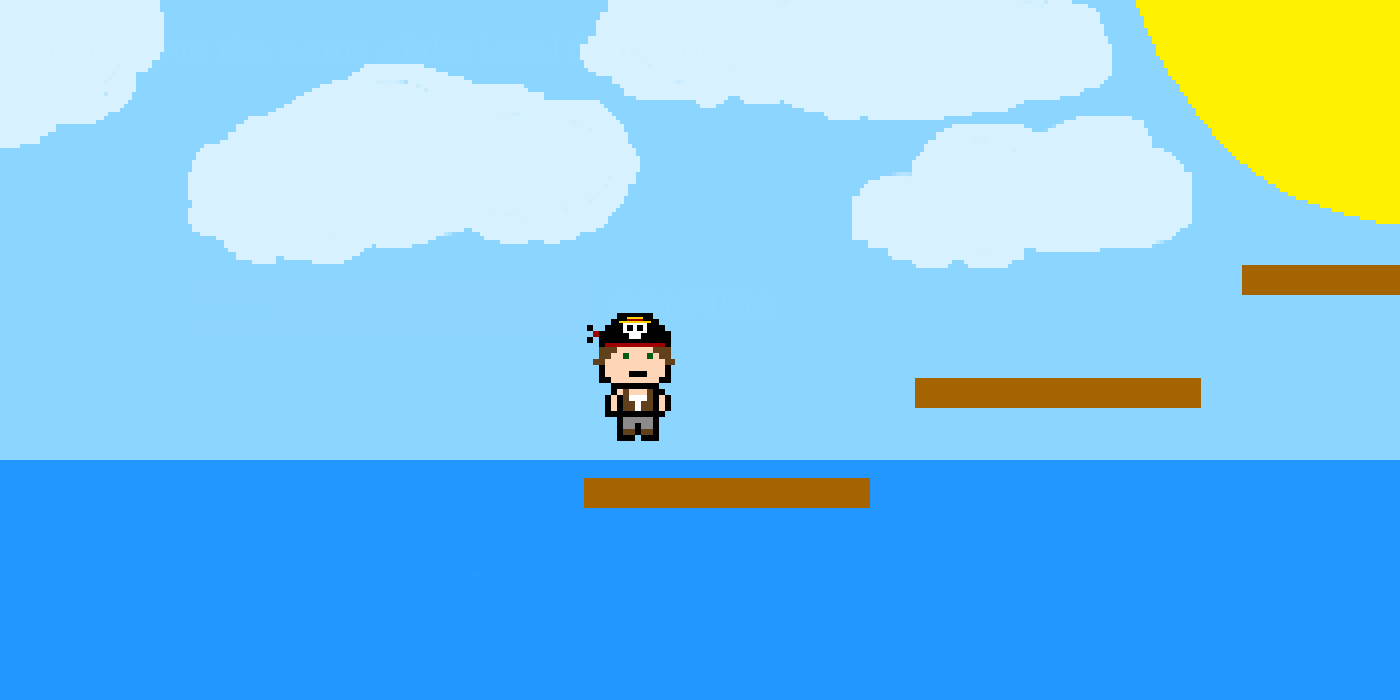
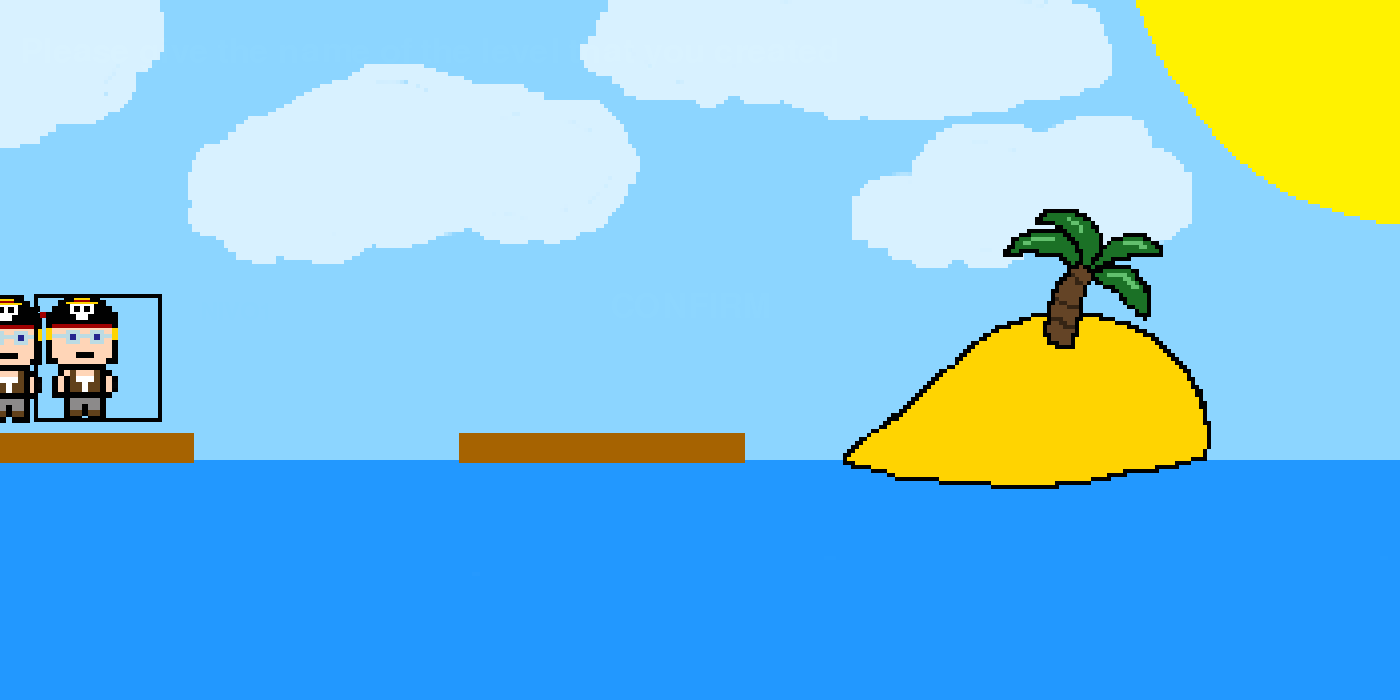
update

Changed region(s): [[0.3071, 0.3, 0.8907, 0.75], [0.0, 0.42, 0.1536, 0.66], [0.86, 0.36, 1.0, 0.42]]

diff --git a/V1.7.py b/V1.7.py
@@ -113,6 +113,7 @@ class player(people):#the class of the player entity
                 i.x-=self.spdx
             for i in prjs:
                 i.x-=self.spdx
+            self.finish[0]-=self.spdx
             self.spawnpoint[0]-=self.spdx
         if (self.y>100 or self.spdy>0) and (self.y<screeny-200-self.height or self.spdy<0 or self.spawnpoint[1]<=0):
             self.y+=self.spdy
@@ -125,6 +126,7 @@ class player(people):#the class of the player entity
                 i.y-=self.spdy
             for i in prjs:
                 i.y-=self.spdy
+            self.finish[1]-=self.spdy
             self.spawnpoint[1]-=self.spdy
 
     def attack(self):#the attack function is the function that summon the projectiles thrown by the player
@@ -395,7 +397,15 @@ def level_editor_unlocked(last_save):#function used, to know if the player has u
     else:
         return False
 
-
+def save_save(save_name):
+    if os.path.exists("Saves/"+save_name+".txt"):#first as we always do, we check if the file exist
+        with open("Saves/"+save_name+".txt" ,'w+') as saveFile:#if yes we open it
+            saveFile.write('level '+str(nLevel))
+            if nLevel==3:
+                saveFile.write('level_editor True')
+            else:
+                saveFile.write('level_editor False')
+            saveFile.write('player '+str(player.Type))
 #beginning of the execution
 #initialysing and loading all the variables/texures/buttons/lists
 pygame.init()
@@ -456,16 +466,13 @@ for i in range(len(temp)):
 temp=os.listdir('Graphism/Player')
 for i in range(len(temp)):
     images=os.listdir('Graphism/Player/'+temp[i])
-    print(images)
     buffer=[]
     for j in range(2,6):
-        print(images[j])
         buffer.append(pygame.image.load('Graphism/Player/'+temp[i]+'/'+images[j]).convert_alpha())
     walkleft.append(buffer)
     print("buffer")
     buffer=[]
     for j in range(6,10):
-        print(images[j])
         buffer.append(pygame.image.load('Graphism/Player/'+temp[i]+'/'+images[j]).convert_alpha())
     walkright.append(buffer)
 #then loading the unique textures
@@ -591,7 +598,8 @@ while not end:#Main loop of the program
             if button.collide(pygame.mouse.get_pos()[0],pygame.mouse.get_pos()[1]):
                 if pygame.mouse.get_pressed()[0]:
                     print("choosed : "+button.info)
-                    nLevel=load_save(button.info)
+                    save_name=button.info
+                    nLevel=load_save(save_name)
                     next_level=level_list[nLevel]
                     start=False
                     choose_save=False
@@ -761,12 +769,11 @@ while not end:#Main loop of the program
             i.draw(hitbox=True)#here we can set hitbox to true to see the hitboxes of the entities
         for i in enemies:
             i.health_bar()#then drawing the health bar of the enemies
-        print(str(player.x)+' '+str(player.y))
-        print(str(player.finish[0])+' '+str(player.finish[1]))
         screen.blit(player.finish[2],(player.finish[0],player.finish[1]))
         if player.x<=player.finish[0]+(128*4)<=player.x+player.width+(128*4) and player.y<=player.finish[1]+(128*4)<=player.y+player.height+(128*4):
             nLevel+=1
             next_level=level_list[nLevel]
+            save_save(save_name)
             play=False
             start=False
             planks=[]

diff --git a/boat_phase.py b/boat_phase.py
@@ -138,7 +138,7 @@ class projectile(): #this class is used for the cannon balls
             screen.blit(cannon_ball,(self.x,self.y))
 
 def main_boat():
-    global boat1_x,boat1_full_life,play,bg2_x,mouse_pos,boat0_x,boat1_life,boat0_life,blue,cooldown,cannon1,cannon0
+    global boat1_x,boat1_full_life,play,bg2_x,mouse_pos,boat0_x,boat1_life,boat0_life,blue,cooldown,cannon1,cannon0,boat1_y
     coque=boat1_part(50,enemy_coque,coque_mask)
     flag1=boat1_part(15,enemy_flag1,flag1_mask)
     flag2=boat1_part(15,enemy_flag2,flag2_mask)
